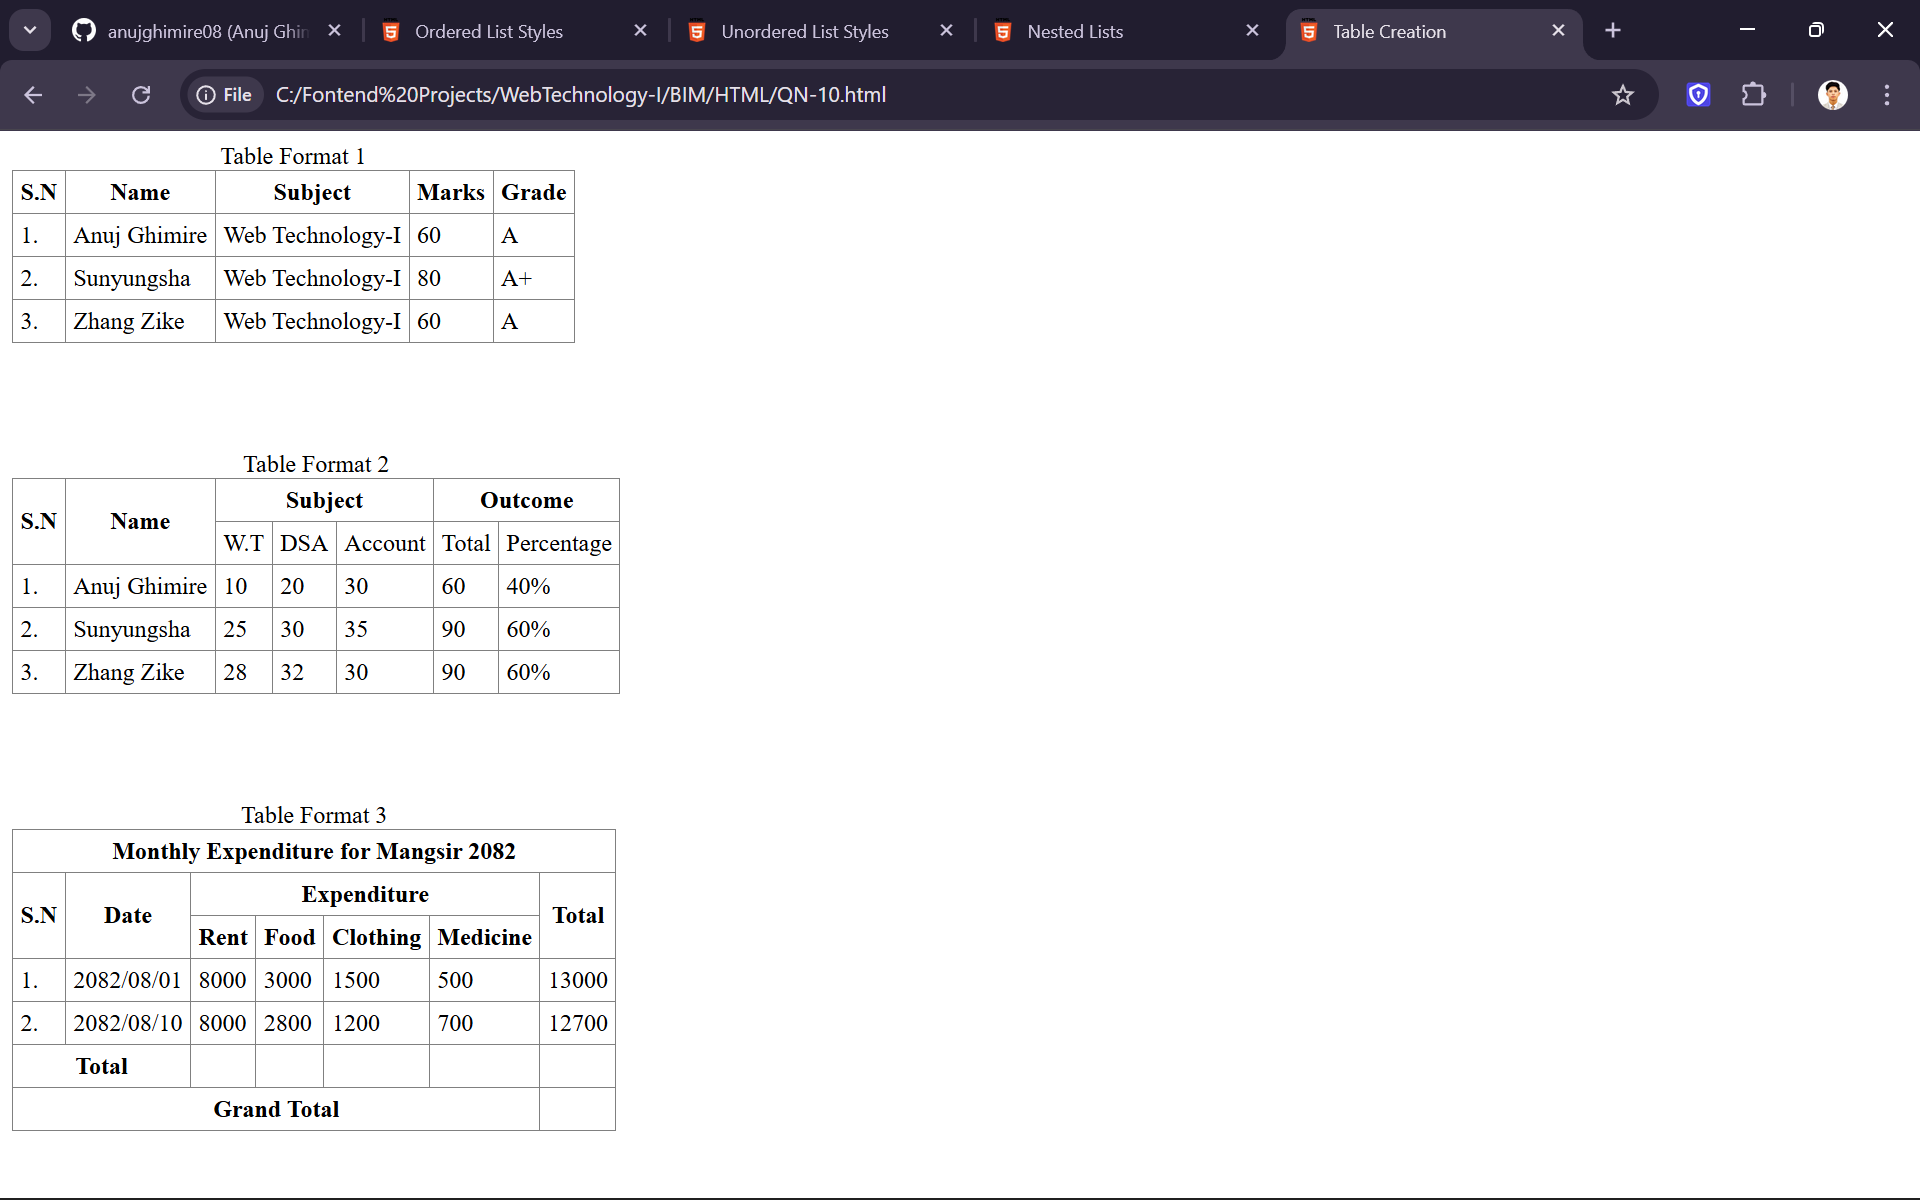
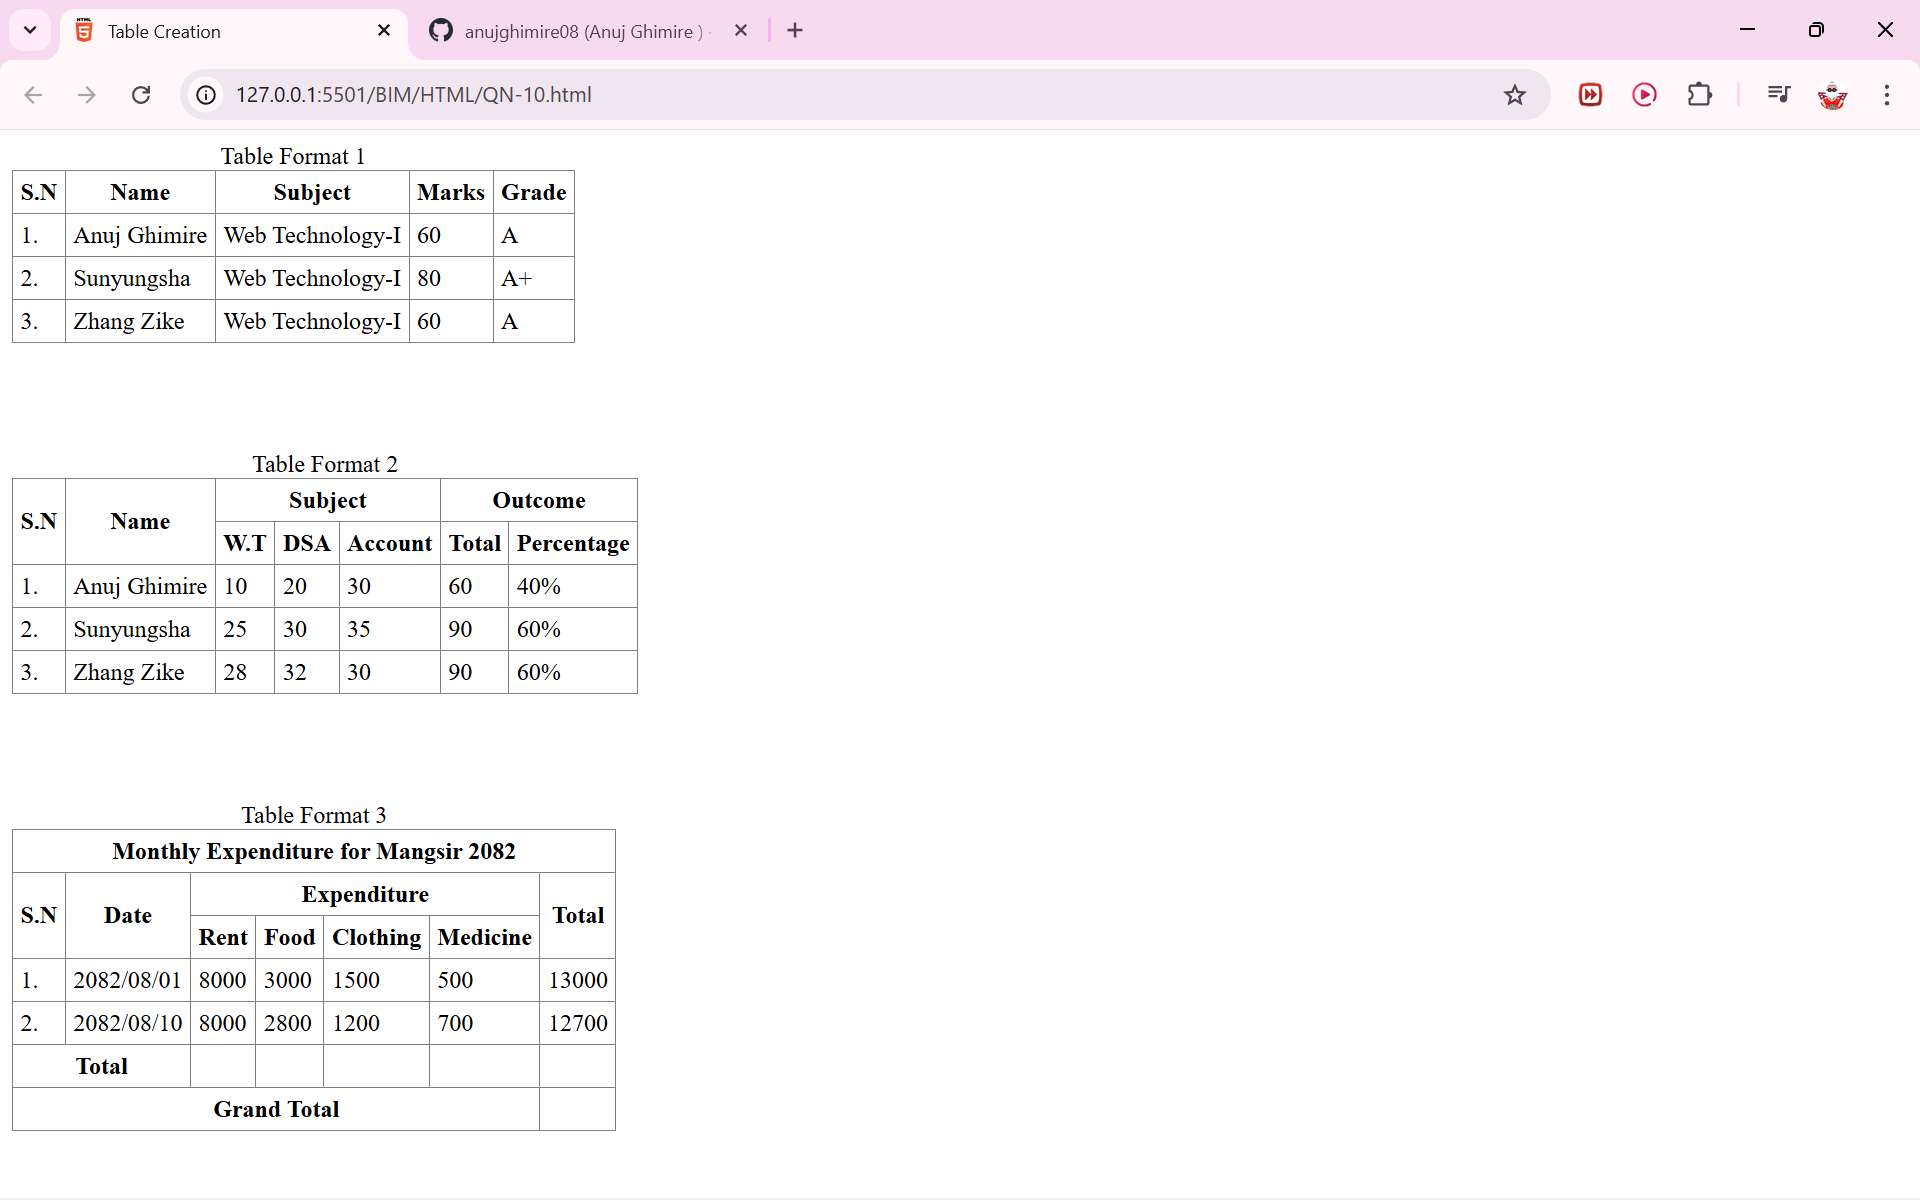
Updated table headers in QN-10.html for improved semantics

diff --git a/BIM/HTML/QN-10.html b/BIM/HTML/QN-10.html
@@ -72,11 +72,11 @@
           <th colspan="2">Outcome</th>
         </tr>
         <tr>
-          <td>W.T</td>
-          <td>DSA</td>
-          <td>Account</td>
-          <td>Total</td>
-          <td>Percentage</td>
+          <th>W.T</th>
+          <th>DSA</th>
+          <th>Account</th>
+          <th>Total</th>
+          <th>Percentage</th>
         </tr>
       </thead>
       <tbody>
